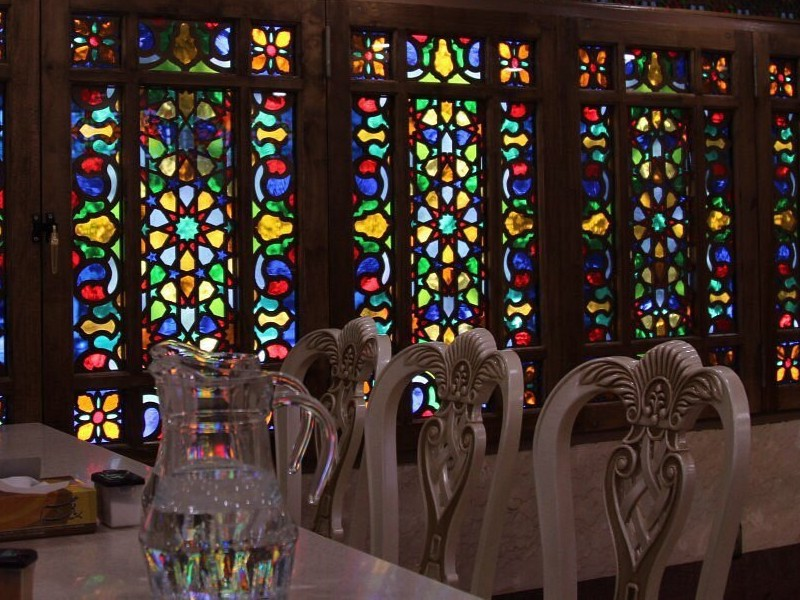
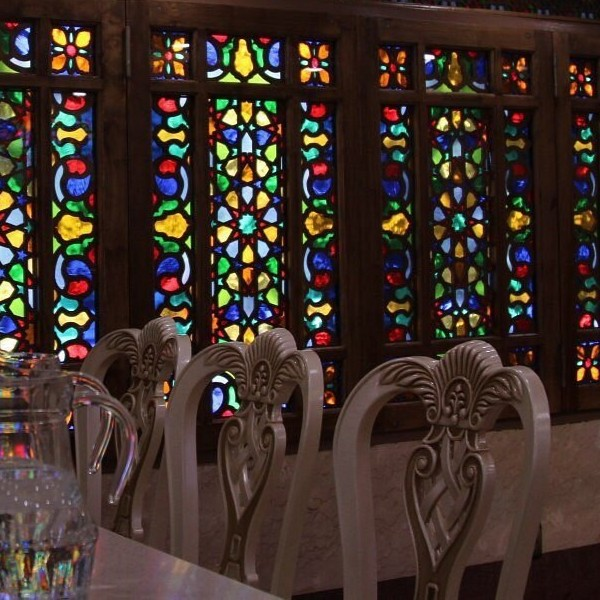
Fix responsive layout and horizontal scrolling on mobile

diff --git a/src/style.css b/src/style.css
@@ -5,14 +5,16 @@
 body {
     margin: 0;
     font-family: "Poppins", sans-serif;
+    overflow-x: hidden;
 }
 .container {
-    max-width: 1800px;
-    margin: 0 auto;
+    width: 100%;
+        max-width: 1200px;
+        overflow-x: hidden;
+        margin: 0 auto;
 }
 /***HEADER***/
 .hero {
-    position: relative;
         min-height: 100vh;
     
         background-image: linear-gradient(rgba(40, 42, 54, 0.5),
@@ -29,54 +31,39 @@ body {
 }
 
 .hero img {
-    position: absolute;
-        top: 40px;
-        left: 50%;
-        transform: translateX(-50%);
+
     width: 100px;
 }
 
 .hero h3 {
-    position: absolute;
-        top: 25%;
-        left: 50%;
-        transform: translateX(-50%);
+text-align: center;
     font-size: 25px;
     letter-spacing: 5px;
     margin: 0;
-    white-space: nowrap;
+    
 }
 
 .hero h1 {
-    position: absolute;
-        top: 40%;
-        left: 50%;
-        transform: translateX(-50%);
+    text-align: center;
     font-size: 80px;
     margin: 0;
-    white-space: nowrap;
+    
 }
 
 .hero h2 {
-    position: absolute;
-        top: 60%;
-        left: 50%;
-        transform: translateX(-50%);
+
     font-size: 45px;
     margin: 0;
-    white-space: nowrap;
 }
 
 .hero .btn {
-    position: absolute;
-        top: 88%;
-        left: 50%;
-        transform: translateX(-50%);
+
     display: inline-block;
     background-color: white;
     color: black;
     text-decoration: none;
     padding: 10px 20px;
+    margin-top: 70px;
     text-transform: uppercase;
     border-radius: 5px;
     letter-spacing: 1px;
@@ -154,27 +141,26 @@ p {
 .card-restaurant {
     background-color: white;
 }
-.card-header {
-    display: grid;
-    grid-template-columns: 1fr 1fr;
-    padding: 15px;
-}
+
 
 .card-body {
     padding: 25px;
 }
+.card-header-grid-2-columns {
+    display: flex;
+}
 
 .card-header-grid-2-columns img {
-    width: 49%;
+    width: 50%;
     height: 150px;
-    border-radius: 0;
     object-fit: cover;
 }
 
 .embeded {
-    width: 49%;
+    width: 50%;
     height: 150px;
 }
+
 
 .footer .btn {
 display: block;
@@ -257,6 +243,7 @@ display: block;
 
 @media (max-width:960px) {
 .hero {
+    min-height: 60vh;
         padding: 80px 0;
 }
 
@@ -266,19 +253,25 @@ display: block;
 
 .hero h3 {
         font-size: 15px;
+        margin-bottom: 50px;
 }
 
 .hero h1 {
-        font-size: 40px;
+font-size: 25px;
+    width: 100%;
+    white-space: normal;
+    margin-bottom: 30px;
 }
 
 .hero h2 {
-        font-size: 20px;
-        top: 50%;
+font-size: 15px;
+    width: 100%;
+    white-space: normal;
+    margin-bottom: 20px;
 }
 
 .grid-2-columns {
-        grid-template-columns: 1fr;
+        grid-template-columns: minmax(0, 1fr);
         padding: 30px 50px;
         gap: 20px;
 }
@@ -289,12 +282,26 @@ display: block;
 .favorite-places .header h1 {
     font-size: 20px;
 }
+.grid-3-columns-card {
+    grid-template-columns: minmax(0, 1fr);
+}
+
+.card-restaurant {
+    min-width: 0;
+}
+
+.card-header-grid-2-columns {
+    flex-direction: column;
+}
 .card-header-grid-2-columns img {
     display: none;
 }
 .embeded {
     width: 100%;
-    height: 100%;
+}
+
+.gallery .header h1 {
+    font-size: 25px;
 }
 .grid-3-columns-2-rows {
     grid-template-columns: 1fr;
@@ -306,7 +313,4 @@ display: block;
         padding: 50px;
         }
         
-.grid-3-columns-card {
-    grid-template-columns: 1fr;
-}
 }
